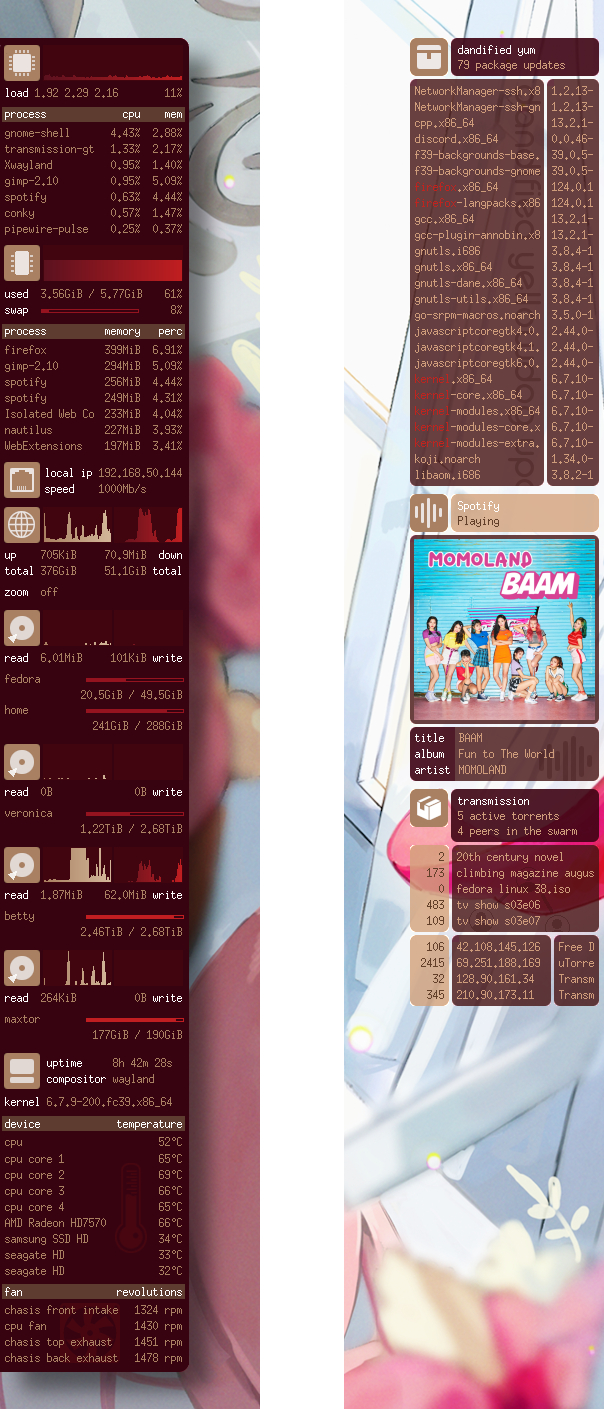
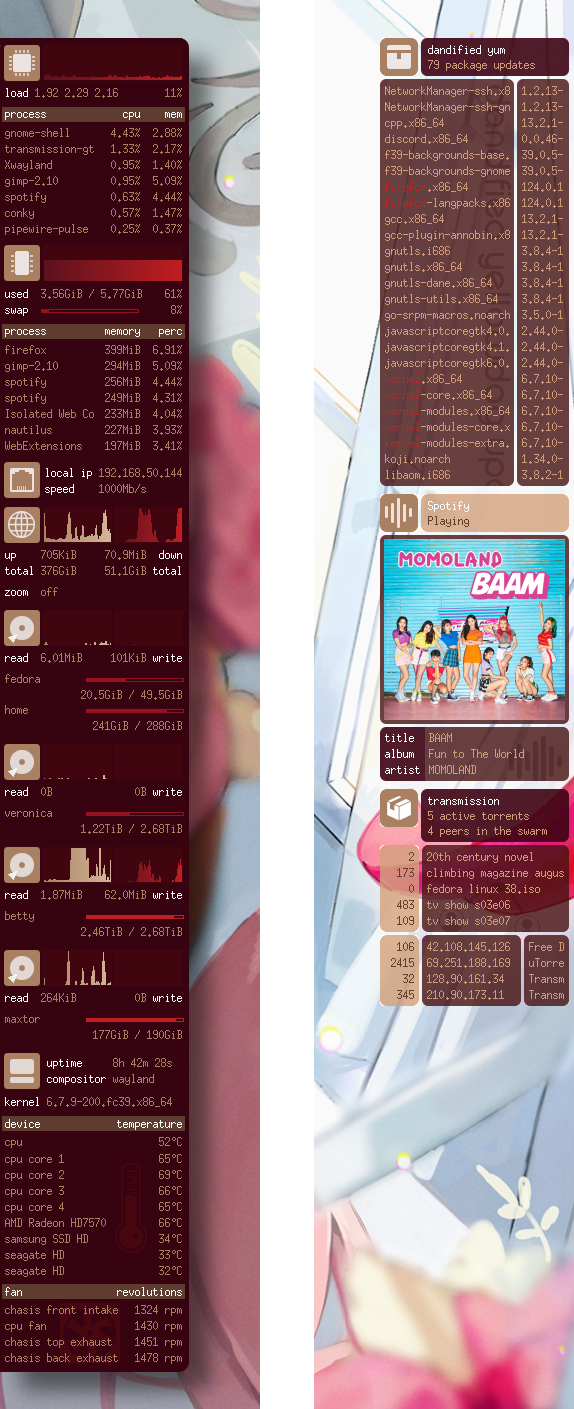
widgets-dock | update screenshot with latest version of the theme
- bug: bottom of track metadata panel was not showing completely
  when playing music with album art
- compact conky screenshot now has the same width as the other
  screenshots

diff --git a/README.md b/README.md
@@ -9,7 +9,7 @@ Keep tabs on your system's cpu, memory, disk, network, battery usage and device 
 ![glass dock](images/screenshots/glass.jpg)
 
 ### Widgets dock
-![widgets dock](images/screenshots/widgets-dock.gif)
+![widgets dock](images/screenshots/widgets-dock.jpg)
 
 ### Widgets
 ![widgets](images/screenshots/widgets.jpg)
